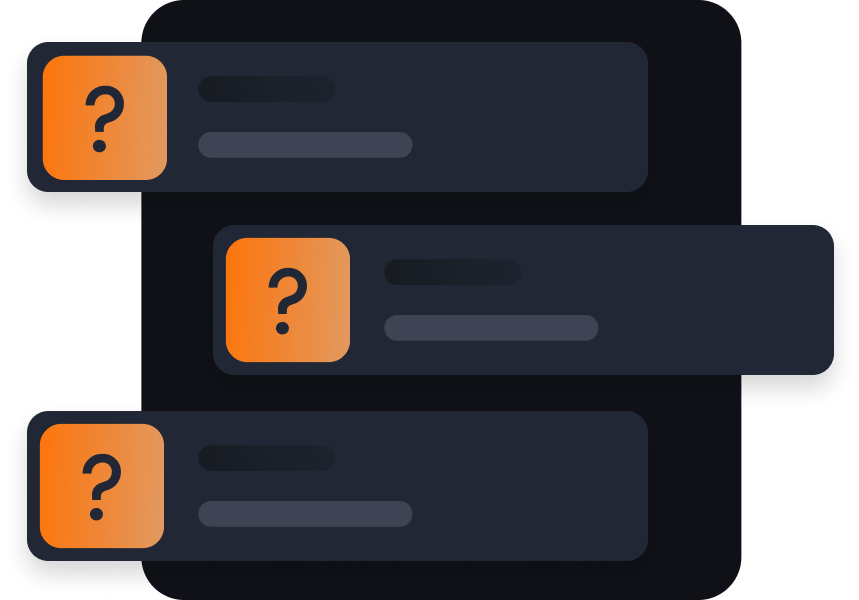
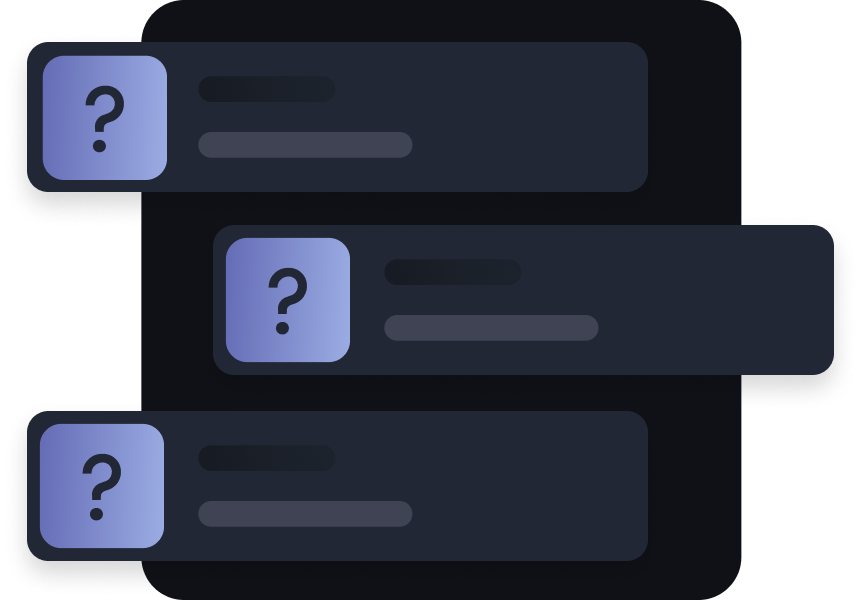
:lipstick: Update UI colors

Changed region(s): [[0.2421, 0.39, 0.4237, 0.63], [0.0303, 0.69, 0.2119, 0.93], [0.0303, 0.09, 0.2119, 0.3]]

diff --git a/components/shared/navbar/Navbar.tsx b/components/shared/navbar/Navbar.tsx
@@ -1,10 +1,11 @@
-import { SignedIn, UserButton } from "@clerk/nextjs";
 import Image from "next/image";
 import Link from "next/link";
 import React from "react";
 import Theme from "./Theme";
 import MobileNav from "./MobileNav";
 import GlobalSearch from "../search/GlobalSearch";
+import { Button } from "@/components/ui/button";
+import { SignedIn, SignedOut, UserButton } from "@clerk/nextjs";
 
 const Navbar = () => {
   return (
@@ -34,11 +35,25 @@ const Navbar = () => {
                 avatarBox: "h-10 w-10",
               },
               variables: {
-                colorPrimary: "#ff7000",
+                colorPrimary: "#5D63AF",
               },
             }}
           />
         </SignedIn>
+
+        <SignedOut>
+          <Link href="/sign-in">
+            <Button className="small-medium btn-secondary min-h-[41px] w-full rounded-lg px-4 py-3 shadow-none">
+              <Image
+                src="/assets/icons/account.svg"
+                alt="login"
+                width={20}
+                height={20}
+                className="invert-colors lg:hidden"
+              />
+            </Button>
+          </Link>
+        </SignedOut>
 
         <MobileNav />
       </div>

diff --git a/app/globals.css b/app/globals.css
@@ -42,7 +42,7 @@ body {
   }
 
   .primary-gradient {
-    background: linear-gradient(129deg, #ff7000 0%, #e2995f 100%);
+    background: linear-gradient(93deg, #373b6a -13.95%, #5d63af 99.54%);
   }
 
   .dark-gradient {
@@ -63,8 +63,8 @@ body {
 }
 
 .active-theme {
-  filter: invert(53%) sepia(98%) saturate(3332%) hue-rotate(0deg)
-    brightness(104%) contrast(106%) !important;
+  filter: invert(43%) sepia(16%) saturate(1388%) hue-rotate(198deg)
+    brightness(92%) contrast(106%) !important;
 }
 
 .light-gradient {
@@ -76,7 +76,7 @@ body {
 }
 
 .primary-text-gradient {
-  background: linear-gradient(129deg, #ff7000 0%, #e2995f 100%);
+  background: linear-gradient(129deg, #5d63af 0%, #9bace3 100%);
   background-clip: text;
   -webkit-background-clip: text;
   -webkit-text-fill-color: transparent;
@@ -125,7 +125,7 @@ code {
   hyphens: auto;
 
   padding: 2px;
-  color: #ff7000 !important;
+  color: #5d63af !important;
 }
 
 .markdown pre {
@@ -144,7 +144,7 @@ code {
 
 /* Clerk */
 .cl-internal-b3fm6y {
-  background: linear-gradient(129deg, #ff7000 0%, #e2995f 100%) !important;
+  background: linear-gradient(129deg, #5d63af 0%, #9bace3 100%) !important;
 }
 
 .hash-span {

diff --git a/components/shared/navbar/Theme.tsx b/components/shared/navbar/Theme.tsx
@@ -27,7 +27,7 @@ const Theme = () => {
               alt=""
               width={20}
               height={20}
-              className="active-theme"
+              className="active-theme cursor-pointer"
             />
           ) : (
             <Image
@@ -35,7 +35,7 @@ const Theme = () => {
               alt=""
               width={20}
               height={20}
-              className="active-theme"
+              className="active-theme cursor-pointer"
             />
           )}
         </MenubarTrigger>

diff --git a/constants/index.ts b/constants/index.ts
@@ -22,11 +22,12 @@ export const sidebarLinks: SidebarLink[] = [
     route: "/collection",
     label: "Collections",
   },
-  {
-    imgURL: "/assets/icons/suitcase.svg",
-    route: "/jobs",
-    label: "Find Jobs",
-  },
+  // Implement this module later
+  // {
+  //   imgURL: "/assets/icons/suitcase.svg",
+  //   route: "/jobs",
+  //   label: "Find Jobs",
+  // },
   {
     imgURL: "/assets/icons/tag.svg",
     route: "/tags",

diff --git a/styles/theme.css b/styles/theme.css
@@ -4,7 +4,7 @@
 
 @layer utilities {
   .background-light850_dark100 {
-    @apply bg-light-850 dark:bg-dark-100;
+    @apply bg-light-850 dark:bg-[#0A0B0F];
   }
 
   .background-light900_dark200 {
@@ -192,7 +192,7 @@
   }
 
   .primary-gradient {
-    background: linear-gradient(129deg, #ff7000 0%, #e2995f 100%);
+    background: linear-gradient(93deg, #373b6a -13.95%, #5d63af 99.54%);
   }
 
   .dark-gradient {

diff --git a/app/(auth)/layout.tsx b/app/(auth)/layout.tsx
@@ -2,7 +2,7 @@ import React from "react";
 
 const Layout = ({ children }: { children: React.ReactNode }) => {
   return (
-    <main className="flex min-h-screen items-center justify-center">
+    <main className="flex min-h-screen items-center justify-center bg-dark-200">
       {children}
     </main>
   );

diff --git a/tailwind.config.ts b/tailwind.config.ts
@@ -18,8 +18,8 @@ module.exports = {
     extend: {
       colors: {
         primary: {
-          500: "#FF7000",
-          100: "#FFF1E6",
+          500: "#5D63AF",
+          100: "#9BACE3",
         },
         dark: {
           100: "#000000",

diff --git a/app/(root)/tags/page.tsx b/app/(root)/tags/page.tsx
@@ -65,7 +65,6 @@ const Page = async ({ searchParams }: SearchParamsProps) => {
               link="/ask-question"
               linkTitle="Ask a Question"
             />
-            No Tags Found
           </div>
         )}
       </section>

diff --git a/next.config.js b/next.config.js
@@ -1,7 +1,6 @@
 /** @type {import('next').NextConfig} */
 const nextConfig = {
   experimental: {
-    serverActions: true,
     mdxRs: true,
     serverComponentsExternalPackages: ["moongose"],
   },

diff --git a/app/layout.tsx b/app/layout.tsx
@@ -29,7 +29,6 @@ export const metadata: Metadata = {
     icon: "/assets/images/site-logo.svg",
   },
 };
-console.log("Layout here");
 
 export default function RootLayout({
   children,

diff --git a/README.md b/README.md
@@ -1,3 +1,6 @@
+500: "#5D63AF",
+100: "#9BACE3",
+
 This is a [Next.js](https://nextjs.org/) project bootstrapped with [`create-next-app`](https://github.com/vercel/next.js/tree/canary/packages/create-next-app).
 
 ## Getting Started
